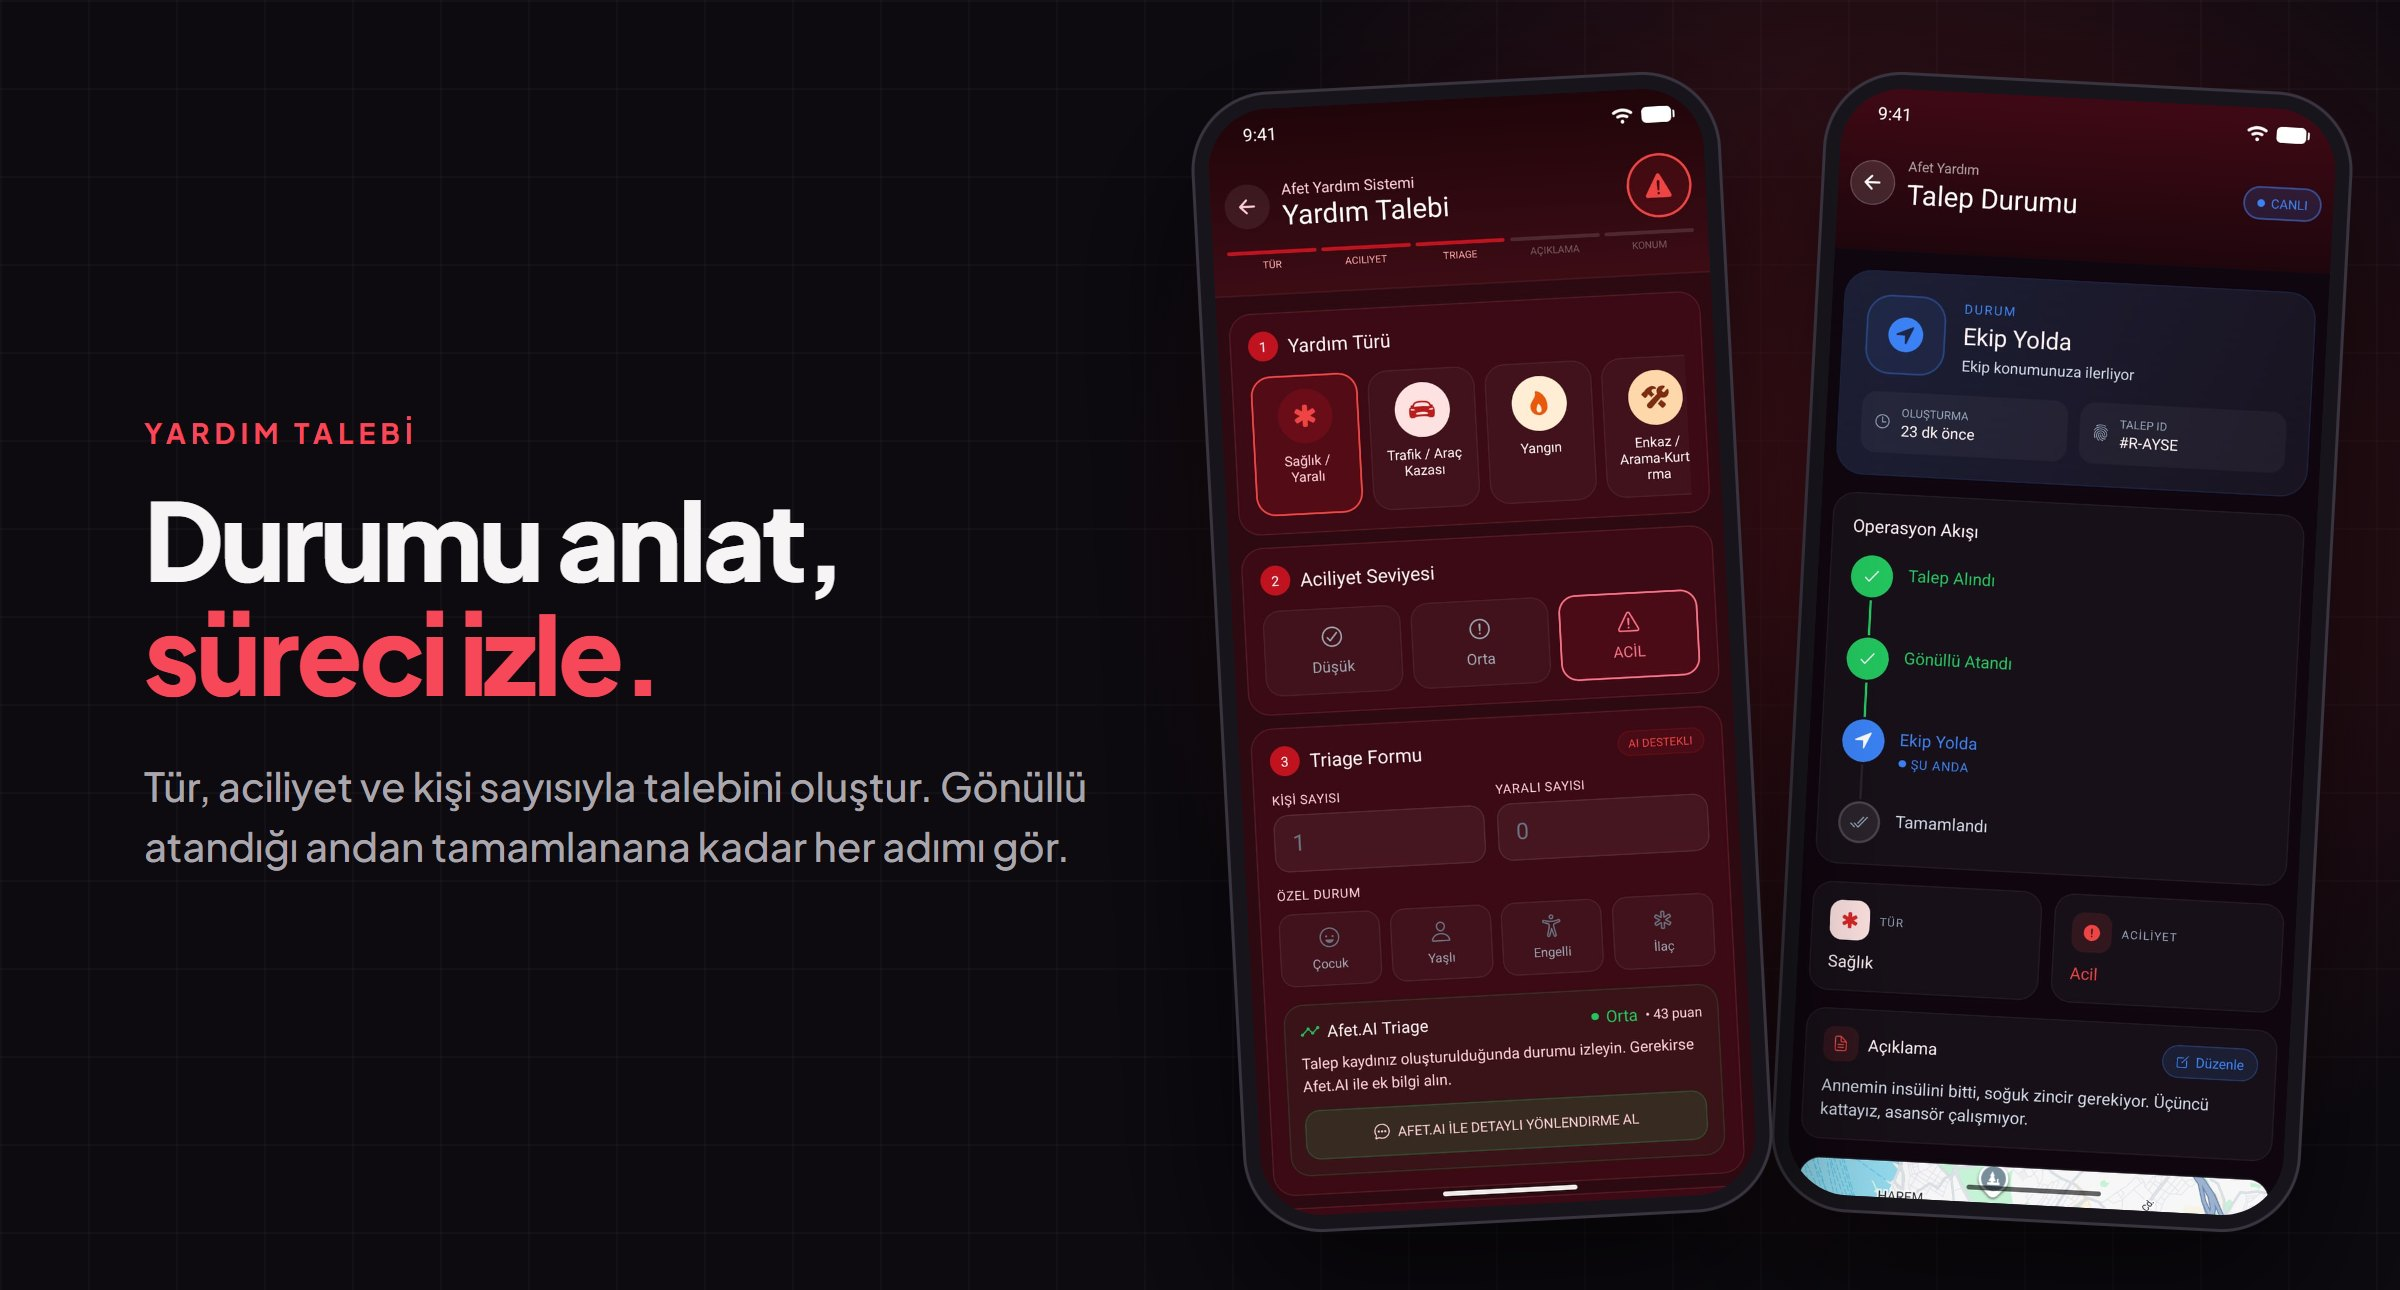
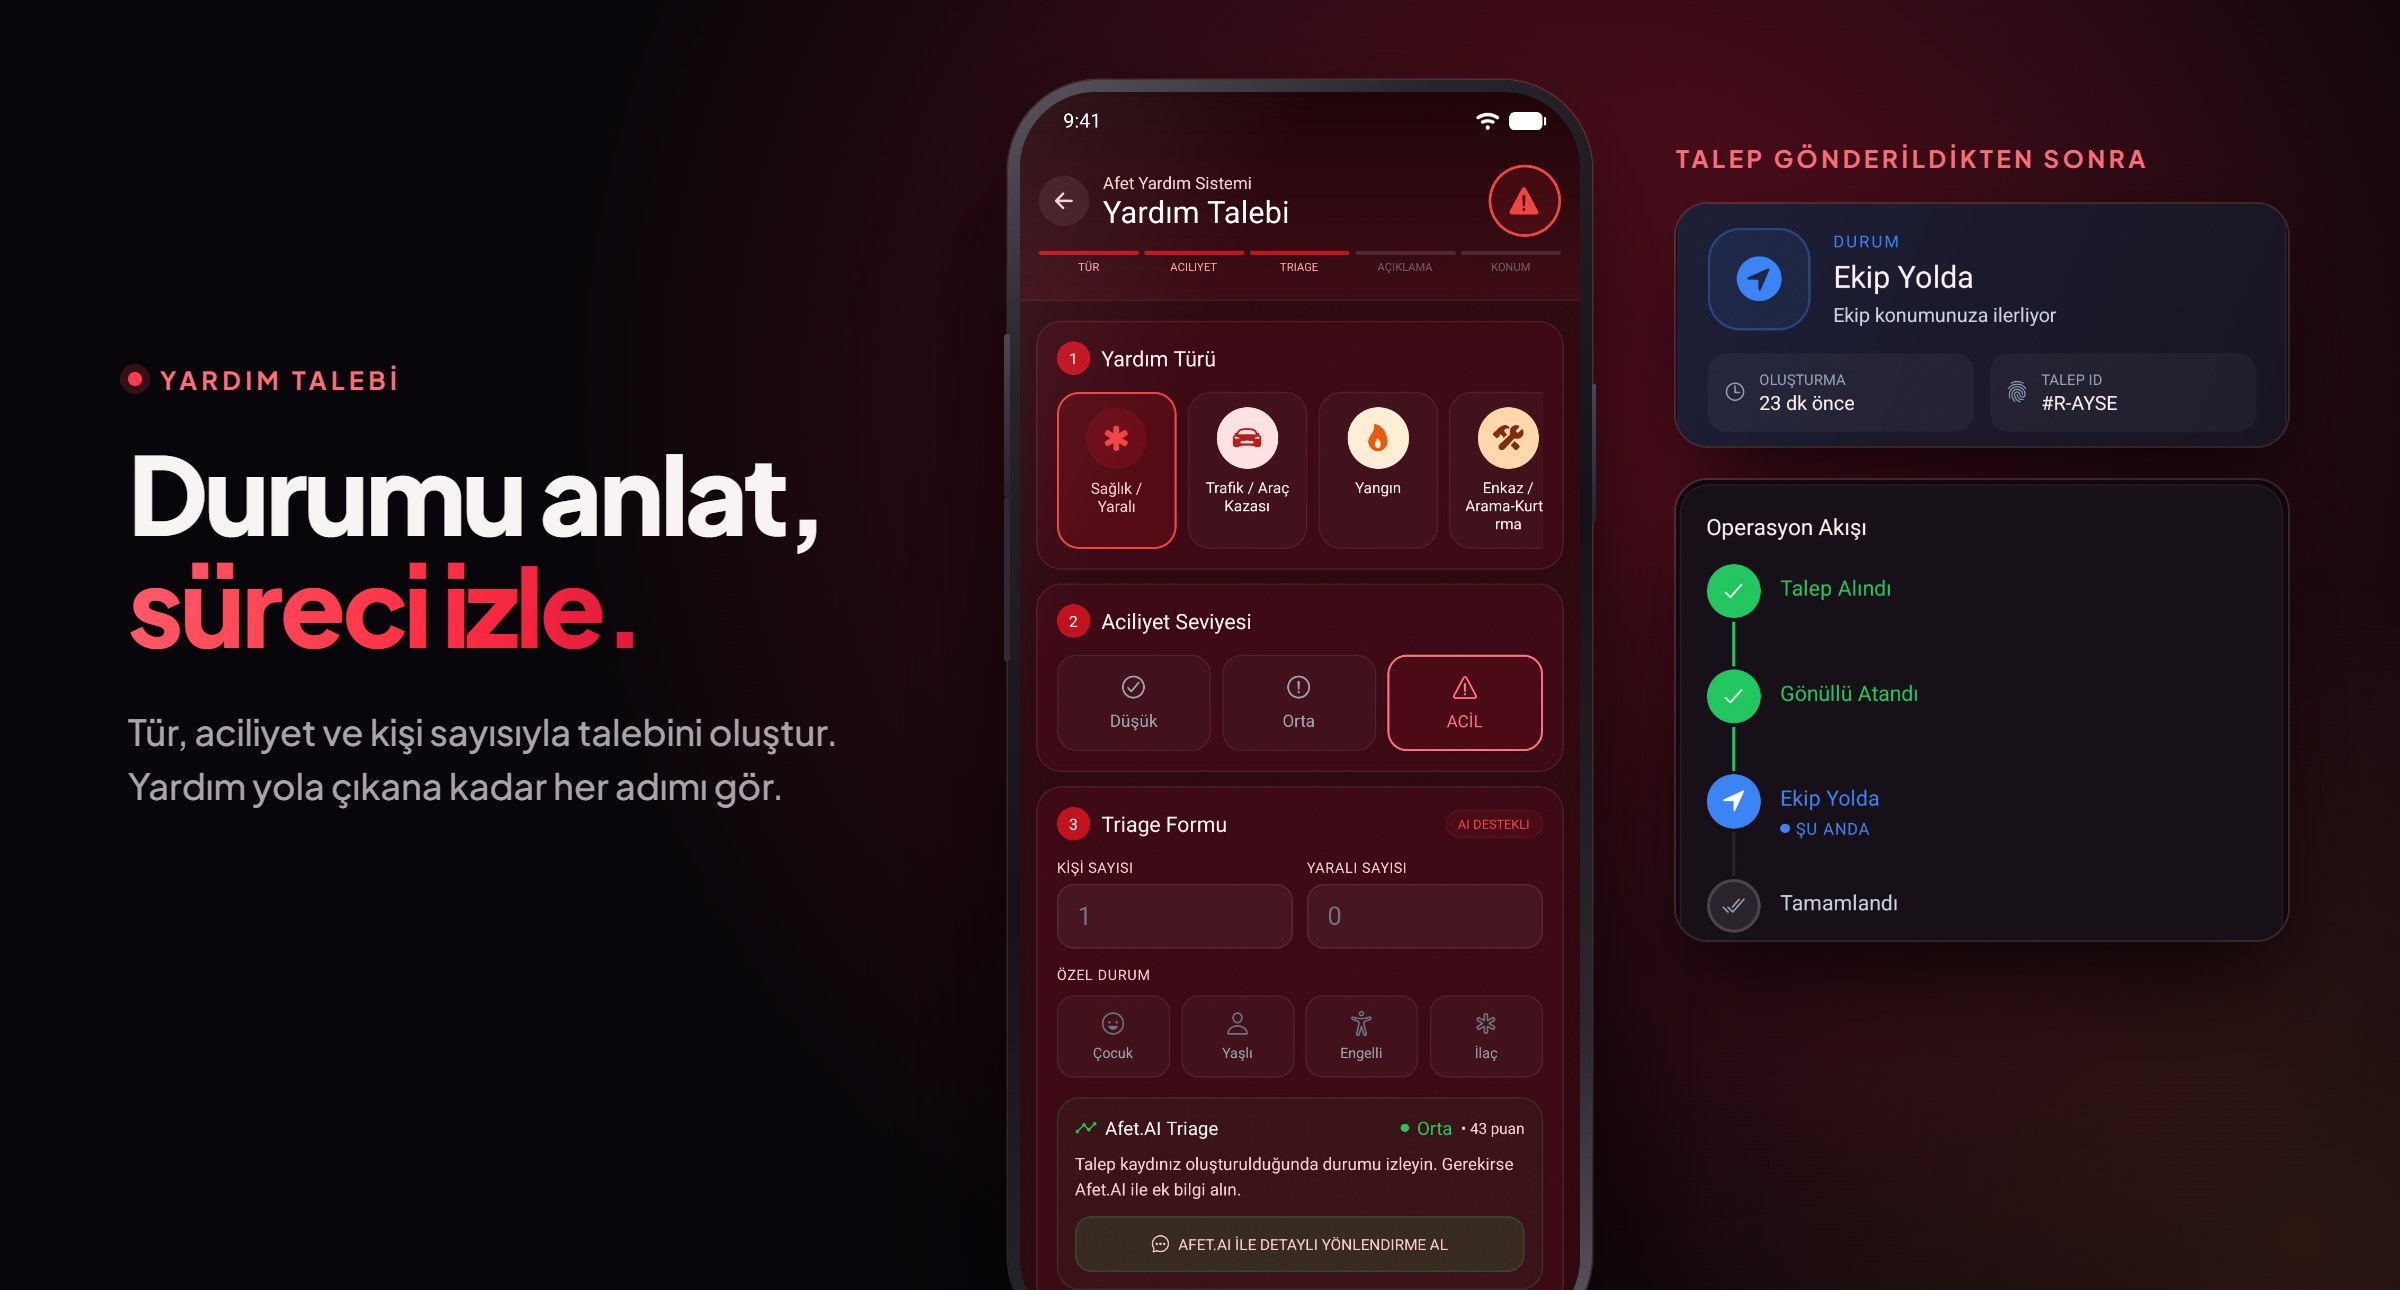
docs: readme gorselleri yenilendi

Changed region(s): [[0.0312, 0.0, 1.0, 1.0], [0.8438, 0.7132, 0.9062, 0.7442]]

diff --git a/README.md b/README.md
@@ -8,7 +8,7 @@
 
 <br>
 
-<img src="docs/screenshots/hero.jpg" alt="Afet Yardım: Çağrıyı sahaya ulaştır" width="100%">
+<img src="docs/screenshots/hero.jpg" alt="Afet Yardım: çağrıyı sahaya ulaştır" width="100%">
 
 <br>
 <br>
@@ -51,12 +51,12 @@ gerçek zamanlı olarak bir araya getiren, iOS ve Android için çok rollü mobi
 
 ## Ekranlar
 
-<p align="center"><img src="docs/screenshots/01-sos.jpg" width="100%" alt="Afetzede: tek dokunuşla yardım çağır"></p>
+<p align="center"><img src="docs/screenshots/01-sos.jpg" width="100%" alt="Afetzede: tek hareketle yardım çağır"></p>
 <p align="center"><img src="docs/screenshots/02-request.jpg" width="100%" alt="Yardım talebi: durumu anlat, süreci izle"></p>
 <p align="center"><img src="docs/screenshots/03-volunteer.jpg" width="100%" alt="Gönüllü: doğru görev, doğru kişiye"></p>
 <p align="center"><img src="docs/screenshots/04-map.jpg" width="100%" alt="Canlı harita: sahayı anlık gör"></p>
 <p align="center"><img src="docs/screenshots/05-coordinator.jpg" width="100%" alt="Koordinatör: operasyon tek ekranda"></p>
-<p align="center"><img src="docs/screenshots/06-chat.jpg" width="100%" alt="İletişim: aynı kanalda kal"></p>
+<p align="center"><img src="docs/screenshots/06-chat.jpg" width="100%" alt="İletişim: aynı kanalda, sadece ilgililer"></p>
 
 <p align="center"><sub>Telefon ekranları, uygulamanın Android emülatöründe kurgusal demo verilerle alınmış gerçek görüntüleridir. Kişiler ve olaylar gerçek değildir.</sub></p>
 
